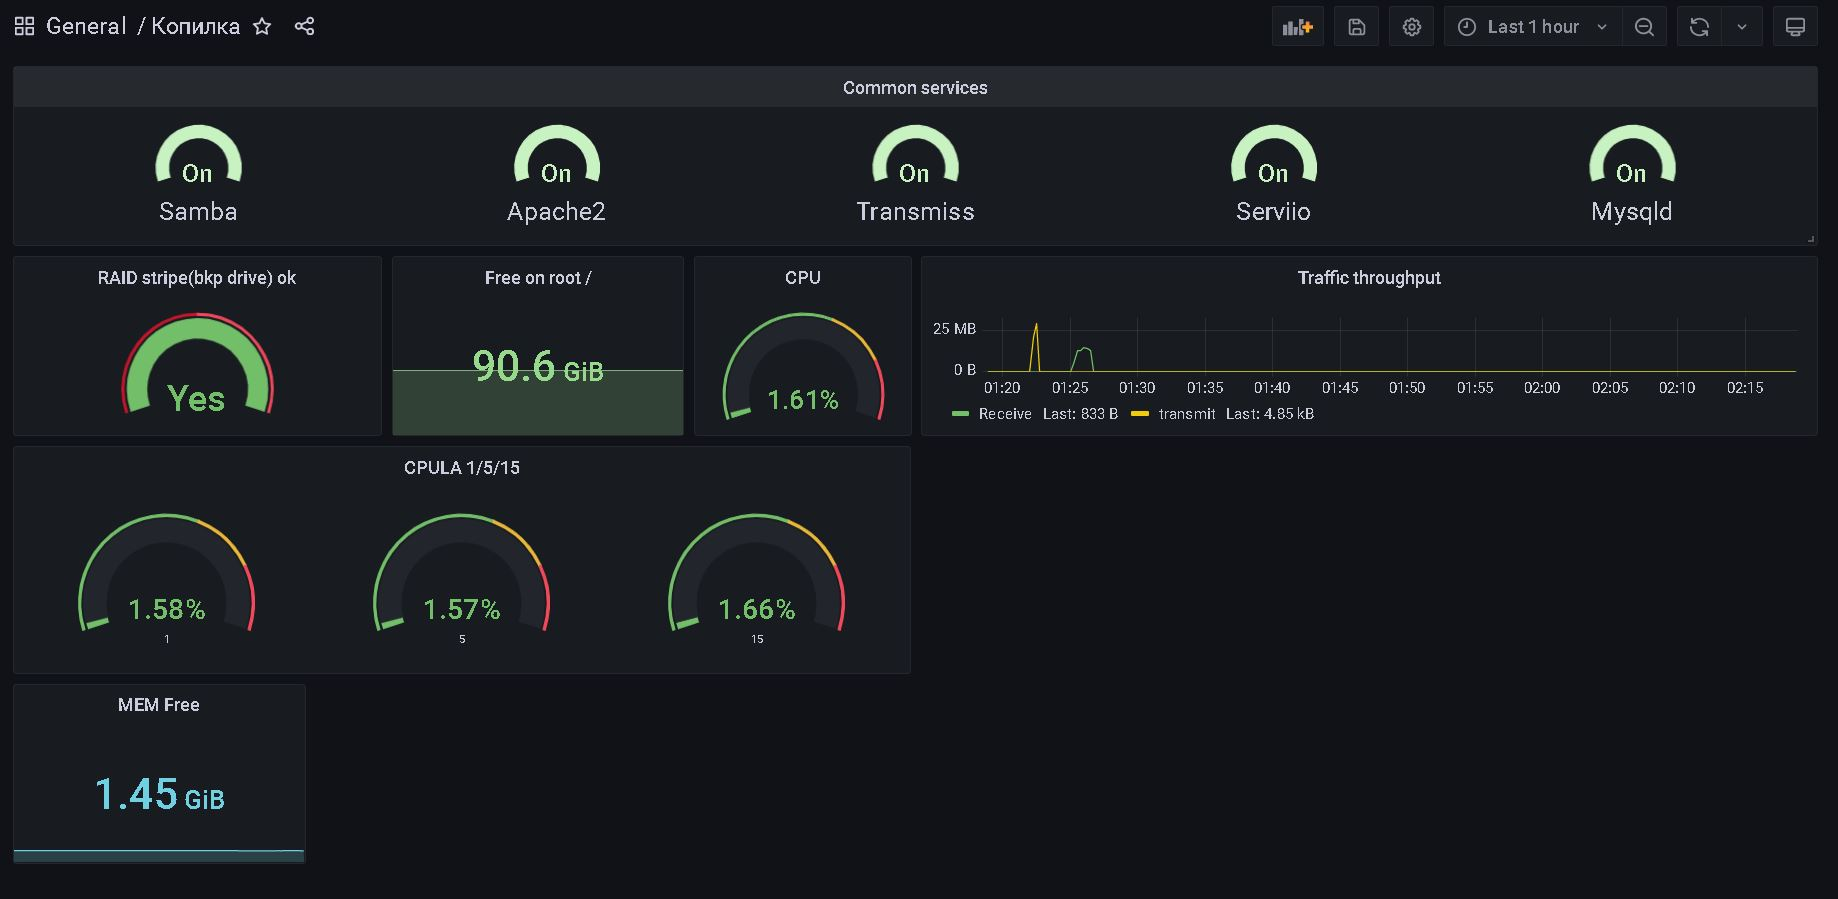
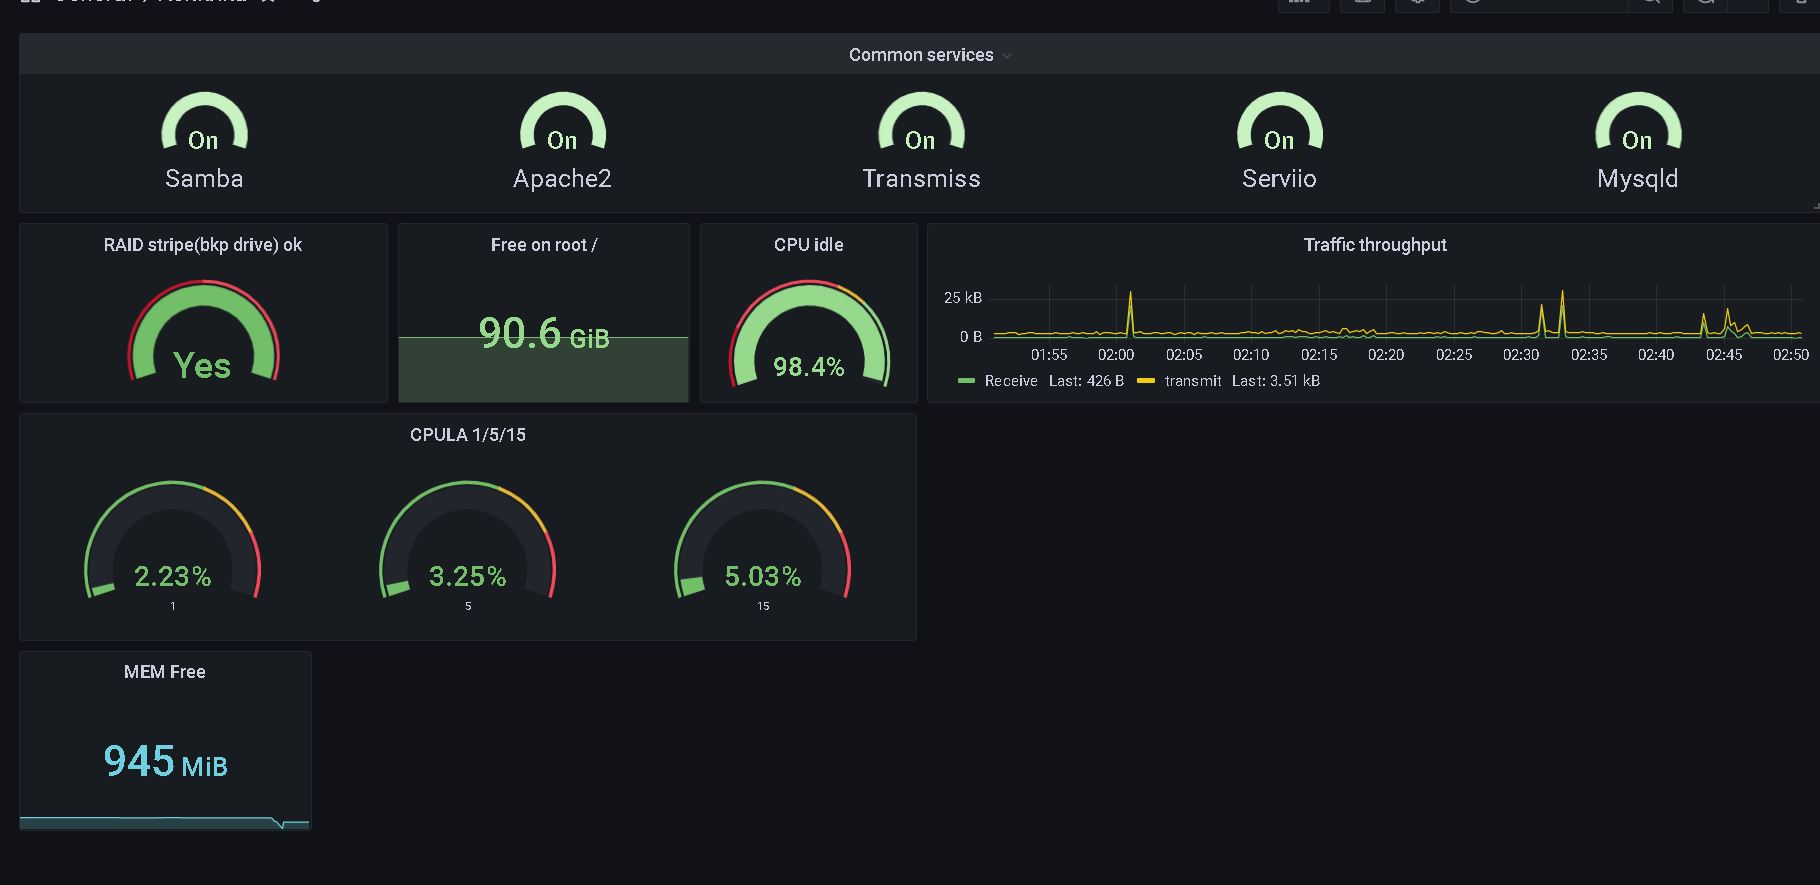
2323

diff --git a/10-monitoring-03-grafana/README.md b/10-monitoring-03-grafana/README.md
@@ -41,7 +41,7 @@
 
 Создайте Dashboard и в ней создайте следующие Panels:
 - Утилизация CPU для nodeexporter (в процентах, 100-idle)
-  * 100 - (avg by (instance) (rate(node_cpu_seconds_total{job="node",mode="idle"}[1m])) * 100)
+  * avg by (instance) (rate(node_cpu_seconds_total{job="node",mode="idle"}[1m])) * 100
 - CPULA 1/5/15
   * 100 - (avg by (instance) (rate(node_cpu_seconds_total{job="node",mode="idle"}[1m])) * 100)
   * 100 - (avg by (instance) (rate(node_cpu_seconds_total{job="node",mode="idle"}[5])) * 100)
